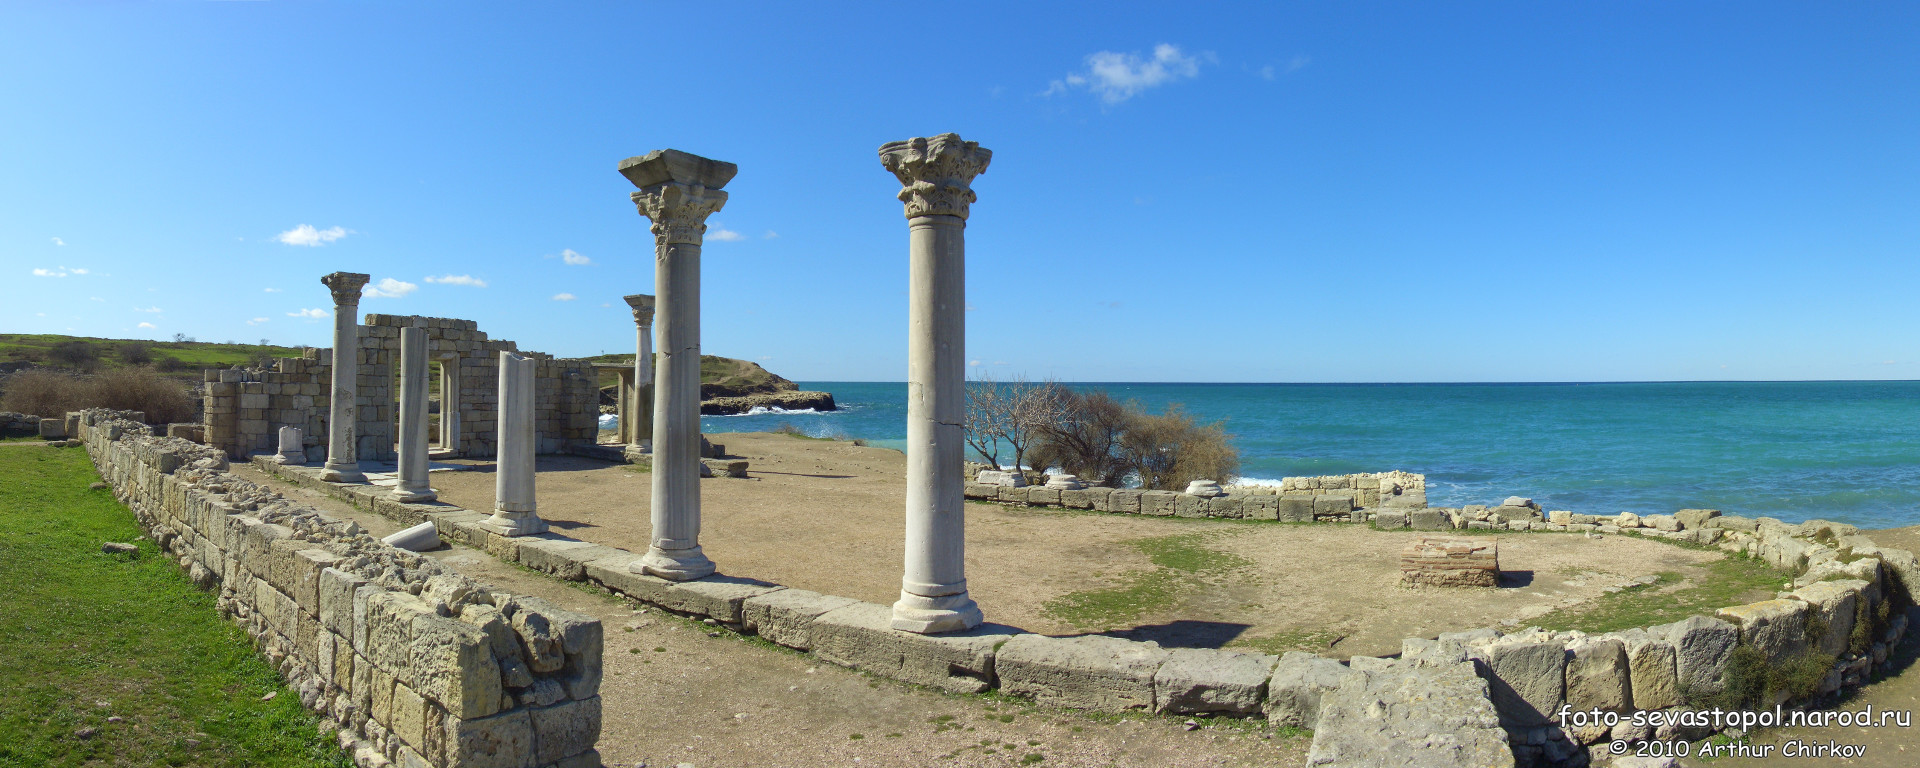
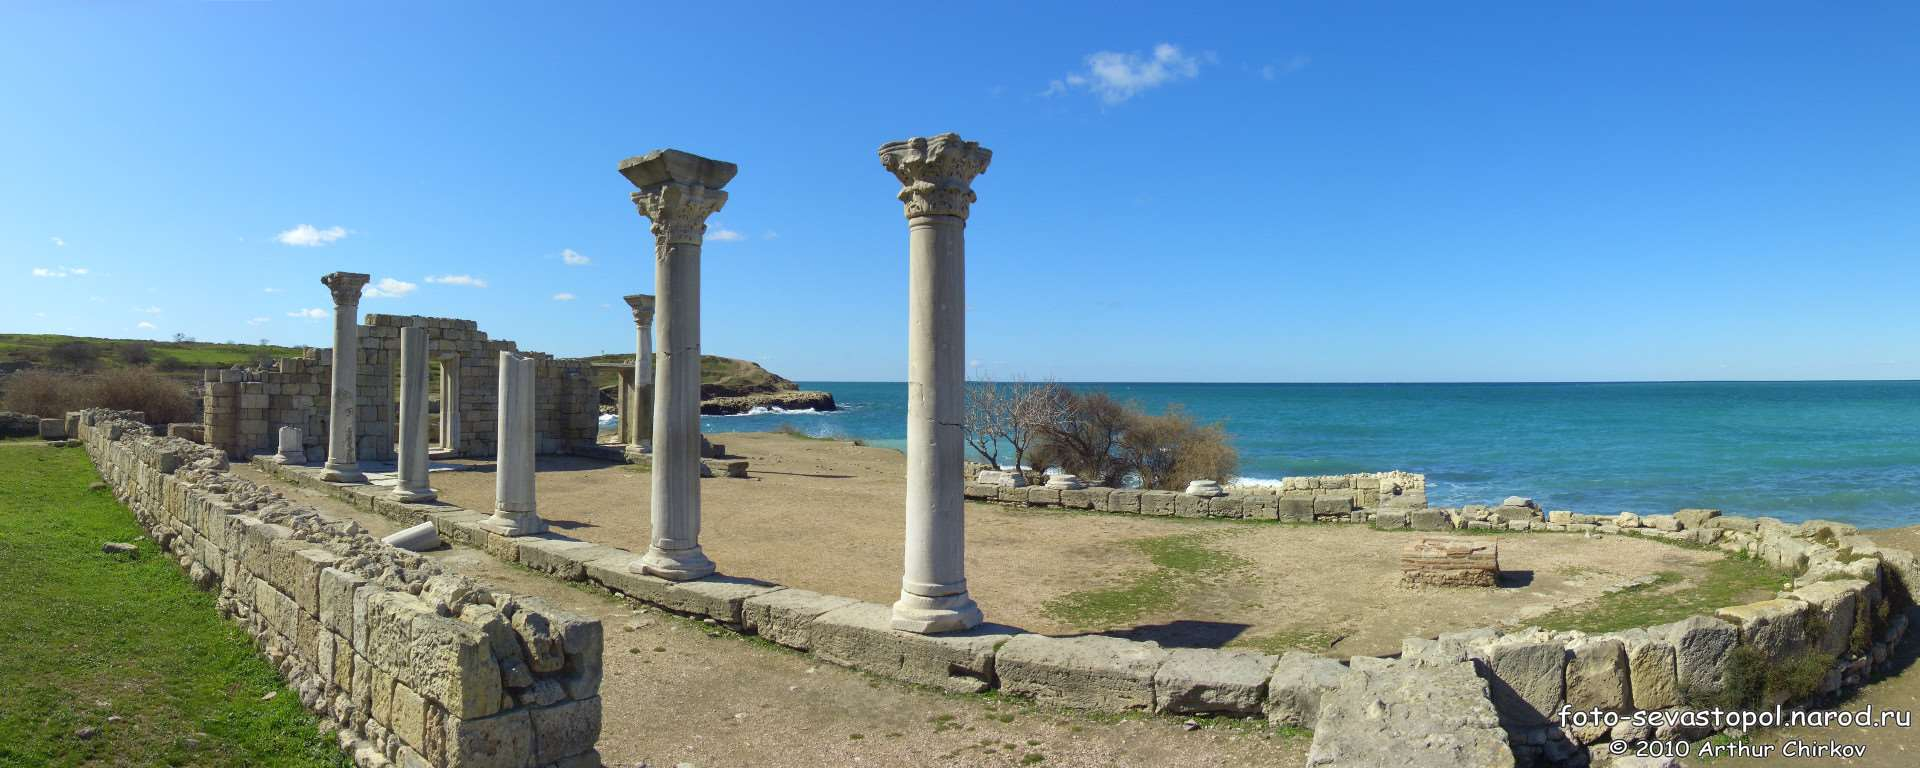
optimize image

diff --git a/index.html b/index.html
@@ -166,40 +166,40 @@
 		<div class="content-wrap">
 			<h2><i class="fa fa-picture-o"></i>&nbsp;&nbsp;&nbsp;Фотогалерея&nbsp;&nbsp;&nbsp;<i class="fa fa-child"></i></h2>
 			<div id="gallery">
-			    <a href="img/photo/1.jpg"><img src="img/photo/1.jpg" alt="Фото" /></a>
-			    <a href="img/photo/2.jpg"><img src="img/photo/2.jpg" alt="Фото" /></a>
-			    <a href="img/photo/3.jpg"><img src="img/photo/3.jpg" alt="Фото" /></a>
-			    <a href="img/photo/4.jpg"><img src="img/photo/4.jpg" alt="Фото" /></a>
-			    <a href="img/photo/5.jpg"><img src="img/photo/5.jpg" alt="Фото" /></a>
-			    <a href="img/photo/6.jpg"><img src="img/photo/6.jpg" alt="Фото" /></a>
-			    <a href="img/photo/7.jpg"><img src="img/photo/7.jpg" alt="Фото" /></a>
-			    <a href="img/photo/8.jpg"><img src="img/photo/8.jpg" alt="Фото" /></a>
-			    <a href="img/photo/9.jpg"><img src="img/photo/9.jpg" alt="Фото" /></a>
-			    <a href="img/photo/10.jpg"><img src="img/photo/10.jpg" alt="Фото" /></a>
-			    <a href="img/photo/11.jpg"><img src="img/photo/11.jpg" alt="Фото" /></a>
-			    <a href="img/photo/12.jpg"><img src="img/photo/12.jpg" alt="Фото" /></a>
-			    <a href="img/photo/13.jpg"><img src="img/photo/13.jpg" alt="Фото" /></a>
-			    <a href="img/photo/14.jpg"><img src="img/photo/14.jpg" alt="Фото" /></a>
-			    <a href="img/photo/15.jpg"><img src="img/photo/15.jpg" alt="Фото" /></a>
-			    <a href="img/photo/16.jpg"><img src="img/photo/16.jpg" alt="Фото" /></a>
-			    <a href="img/photo/17.jpg"><img src="img/photo/17.jpg" alt="Фото" /></a>
-			    <a href="img/photo/18.jpg"><img src="img/photo/18.jpg" alt="Фото" /></a>
-			    <a href="img/photo/19.jpg"><img src="img/photo/19.jpg" alt="Фото" /></a>
-			    <a href="img/photo/20.jpg"><img src="img/photo/20.jpg" alt="Фото" /></a>
-			    <a href="img/photo/21.jpg"><img src="img/photo/21.jpg" alt="Фото" /></a>
-			    <a href="img/photo/22.jpg"><img src="img/photo/22.jpg" alt="Фото" /></a>
-			    <a href="img/photo/23.jpg"><img src="img/photo/23.jpg" alt="Фото" /></a>
-			    <a href="img/photo/24.jpg"><img src="img/photo/24.jpg" alt="Фото" /></a>
-			    <a href="img/photo/25.jpg"><img src="img/photo/25.jpg" alt="Фото" /></a>
-			    <a href="img/photo/26.jpg"><img src="img/photo/26.jpg" alt="Фото" /></a>
-			    <a href="img/photo/27.jpg"><img src="img/photo/27.jpg" alt="Фото" /></a>
-			    <a href="img/photo/28.jpg"><img src="img/photo/28.jpg" alt="Фото" /></a>
-			    <a href="img/photo/29.jpg"><img src="img/photo/29.jpg" alt="Фото" /></a>
-			    <a href="img/photo/30.jpg"><img src="img/photo/30.jpg" alt="Фото" /></a>
-			    <a href="img/photo/31.jpg"><img src="img/photo/31.jpg" alt="Фото" /></a>
-			    <a href="img/photo/32.jpg"><img src="img/photo/32.jpg" alt="Фото" /></a>
-			    <a href="img/photo/33.jpg"><img src="img/photo/33.jpg" alt="Фото" /></a>
-			    <a href="img/photo/34.jpg"><img src="img/photo/34.jpg" alt="Фото" /></a>
+			    <a href="img/photo/large/1.jpg"><img src="img/photo/thumbs/1.jpg" alt="Фото" /></a>
+			    <a href="img/photo/large/2.jpg"><img src="img/photo/thumbs/2.jpg" alt="Фото" /></a>
+			    <a href="img/photo/large/3.jpg"><img src="img/photo/thumbs/3.jpg" alt="Фото" /></a>
+			    <a href="img/photo/large/4.jpg"><img src="img/photo/thumbs/4.jpg" alt="Фото" /></a>
+			    <a href="img/photo/large/5.jpg"><img src="img/photo/thumbs/5.jpg" alt="Фото" /></a>
+			    <a href="img/photo/large/6.jpg"><img src="img/photo/thumbs/6.jpg" alt="Фото" /></a>
+			    <a href="img/photo/large/7.jpg"><img src="img/photo/thumbs/7.jpg" alt="Фото" /></a>
+			    <a href="img/photo/large/8.jpg"><img src="img/photo/thumbs/8.jpg" alt="Фото" /></a>
+			    <a href="img/photo/large/9.jpg"><img src="img/photo/thumbs/9.jpg" alt="Фото" /></a>
+			    <a href="img/photo/large/10.jpg"><img src="img/photo/thumbs/10.jpg" alt="Фото" /></a>
+			    <a href="img/photo/large/11.jpg"><img src="img/photo/thumbs/11.jpg" alt="Фото" /></a>
+			    <a href="img/photo/large/12.jpg"><img src="img/photo/thumbs/12.jpg" alt="Фото" /></a>
+			    <a href="img/photo/large/13.jpg"><img src="img/photo/thumbs/13.jpg" alt="Фото" /></a>
+			    <a href="img/photo/large/14.jpg"><img src="img/photo/thumbs/14.jpg" alt="Фото" /></a>
+			    <a href="img/photo/large/15.jpg"><img src="img/photo/thumbs/15.jpg" alt="Фото" /></a>
+			    <a href="img/photo/large/16.jpg"><img src="img/photo/thumbs/16.jpg" alt="Фото" /></a>
+			    <a href="img/photo/large/17.jpg"><img src="img/photo/thumbs/17.jpg" alt="Фото" /></a>
+			    <a href="img/photo/large/18.jpg"><img src="img/photo/thumbs/18.jpg" alt="Фото" /></a>
+			    <a href="img/photo/large/19.jpg"><img src="img/photo/thumbs/19.jpg" alt="Фото" /></a>
+			    <a href="img/photo/large/20.jpg"><img src="img/photo/thumbs/20.jpg" alt="Фото" /></a>
+			    <a href="img/photo/large/21.jpg"><img src="img/photo/thumbs/21.jpg" alt="Фото" /></a>
+			    <a href="img/photo/large/22.jpg"><img src="img/photo/thumbs/22.jpg" alt="Фото" /></a>
+			    <a href="img/photo/large/23.jpg"><img src="img/photo/thumbs/23.jpg" alt="Фото" /></a>
+			    <a href="img/photo/large/24.jpg"><img src="img/photo/thumbs/24.jpg" alt="Фото" /></a>
+			    <a href="img/photo/large/25.jpg"><img src="img/photo/thumbs/25.jpg" alt="Фото" /></a>
+			    <a href="img/photo/large/26.jpg"><img src="img/photo/thumbs/26.jpg" alt="Фото" /></a>
+			    <a href="img/photo/large/27.jpg"><img src="img/photo/thumbs/27.jpg" alt="Фото" /></a>
+			    <a href="img/photo/large/28.jpg"><img src="img/photo/thumbs/28.jpg" alt="Фото" /></a>
+			    <a href="img/photo/large/29.jpg"><img src="img/photo/thumbs/29.jpg" alt="Фото" /></a>
+			    <a href="img/photo/large/30.jpg"><img src="img/photo/thumbs/30.jpg" alt="Фото" /></a>
+			    <a href="img/photo/large/31.jpg"><img src="img/photo/thumbs/31.jpg" alt="Фото" /></a>
+			    <a href="img/photo/large/32.jpg"><img src="img/photo/thumbs/32.jpg" alt="Фото" /></a>
+			    <a href="img/photo/large/33.jpg"><img src="img/photo/thumbs/33.jpg" alt="Фото" /></a>
+			    <a href="img/photo/large/34.jpg"><img src="img/photo/thumbs/34.jpg" alt="Фото" /></a>
 			</div>
 		</div>
 	</div>
